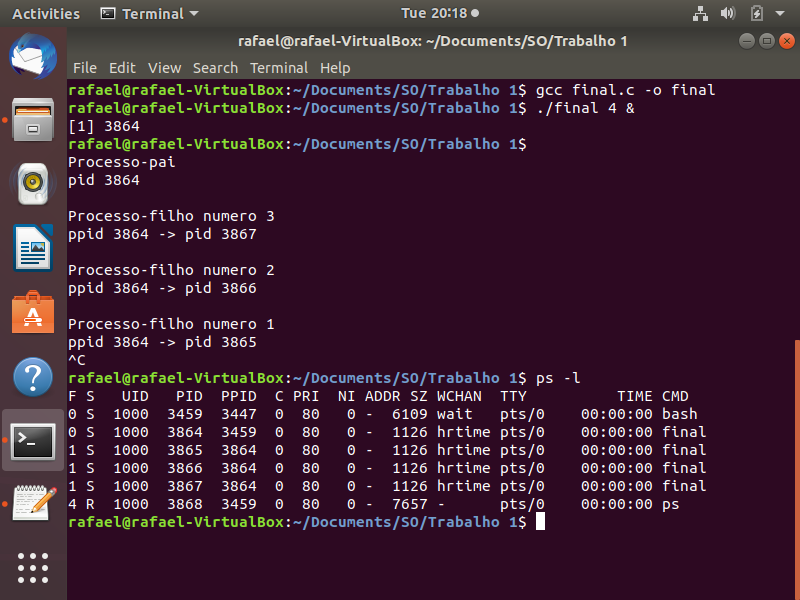
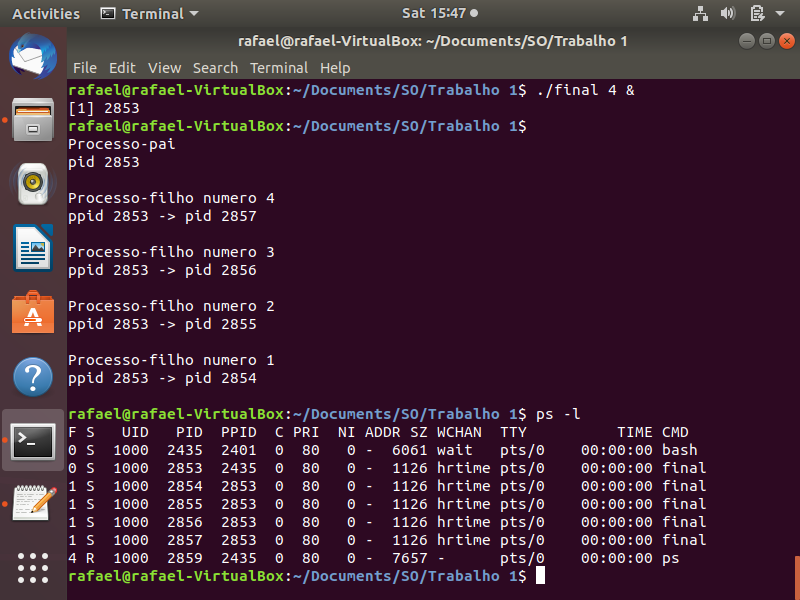
Inserção de Tratamento de Erros no fork()
Ademais, realização de menores correções e adição de comentários.

diff --git a/Trabalho 1/final.c b/Trabalho 1/final.c
@@ -5,14 +5,14 @@ Trabalho 1 de Sistemas Operacionais
 Integrantes: 
 - Jessica Oliveira - 13/0028983
 - Rafael Menegassi - 14/0159355
-- Victor Martorelli
+- Victor Martorelli - 16/0085012
 
 Especificacoes de sistema utilizadas para testes:
-- Ubuntu 18.04 (Máquina Virtual)
+- Ubuntu 18.04.4 (Máquina Virtual)
 - GCC versao 7.5.0 
 
 Compilação:
-gcc final.c
+gcc final.c -o final
 
 Execução:
 ./final [NUMERO_DE_PROCESSOS_DESEJADO] &
@@ -22,25 +22,45 @@ Execução:
 #include <stdio.h>
 #include <stdlib.h>
 #include <unistd.h>
+#include <errno.h>
 
-int main(int argc, char** argv) {
+int main(int argc, char** argv) 
+{
 	int pid;
 
-	if(atoi(argv[1]) > 10) {
-		printf("\nArgumento invalido!\nForneca um argumento menor ou igual a 10.\n");
+	// Verificacao se o numero de processos passado via argumento e valido.
+	if(atoi(argv[1]) > 10) 
+	{
+		printf("\nArgumento invalido!\nPor gentileza, forneca um argumento menor ou igual a 10.\n");
 		exit(1);
 	}
 
-	for(int n = 1; n < atoi(argv[1]); n++) {
-		pid = fork();
-		if(pid == 0) {
-			printf("\nProcesso-filho numero %d\nppid %d -> pid %d\n", n, (int) getppid(), (int) getpid());
+	// Impressao de dados do processo-pai.
+	printf("\nProcesso-pai\npid %d\n", (int) getpid());
+
+	// Loop de tratamento de novos processos.
+	for(int n = 0; n < atoi(argv[1]); n++) 
+	{
+
+		int pid;
+		
+		// Caso nao seja possivel realizar o fork.
+		if ((pid = fork()) < 0)
+		{
+			printf("ERRO #%d - ", errno);
+			perror("Erro ao criar novo processo");
+			exit(1);
+		}
+		// Caso seja possivel realizar o fork.
+		else if(pid == 0) 
+		{
+			// Impressao de dados do processo-filho.
+			printf("\nProcesso-filho numero %d\nppid %d -> pid %d\n", n+1, (int) getppid(), (int) getpid());
 			sleep(30);
 			exit(0);
 		}
 	}
-
-	printf("\nProcesso-pai\npid %d\n", (int) getpid());
+	
 	sleep(30);
 
 	return 0;
